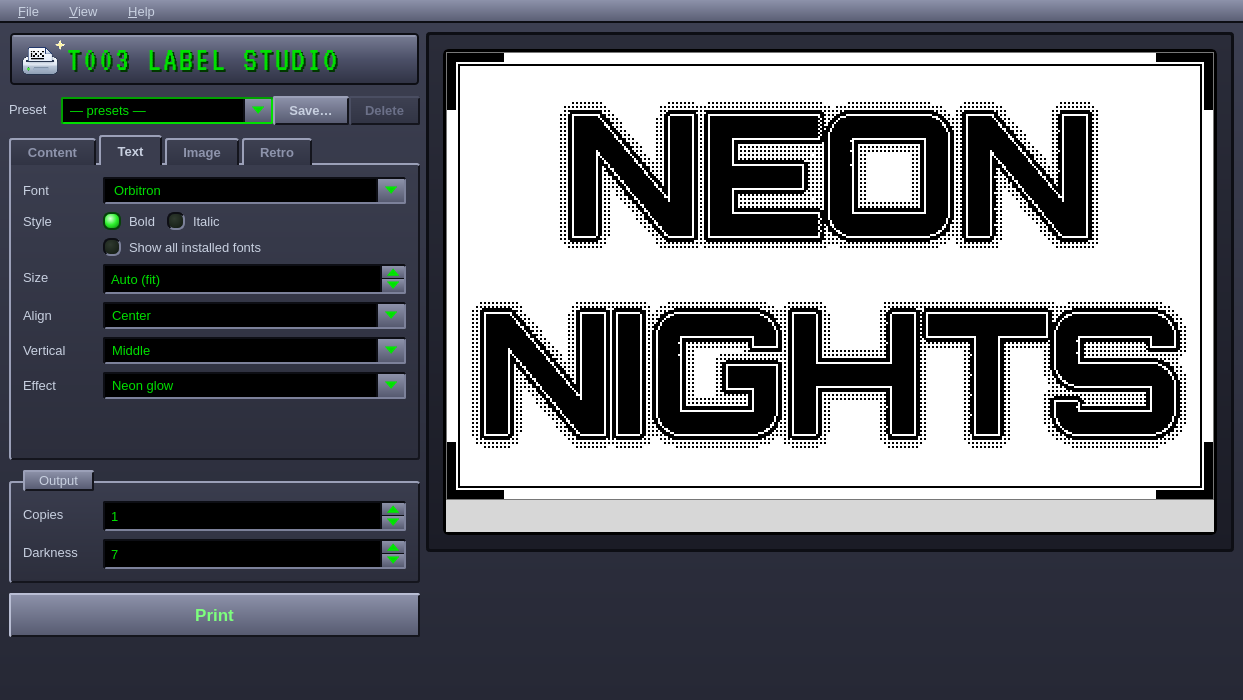
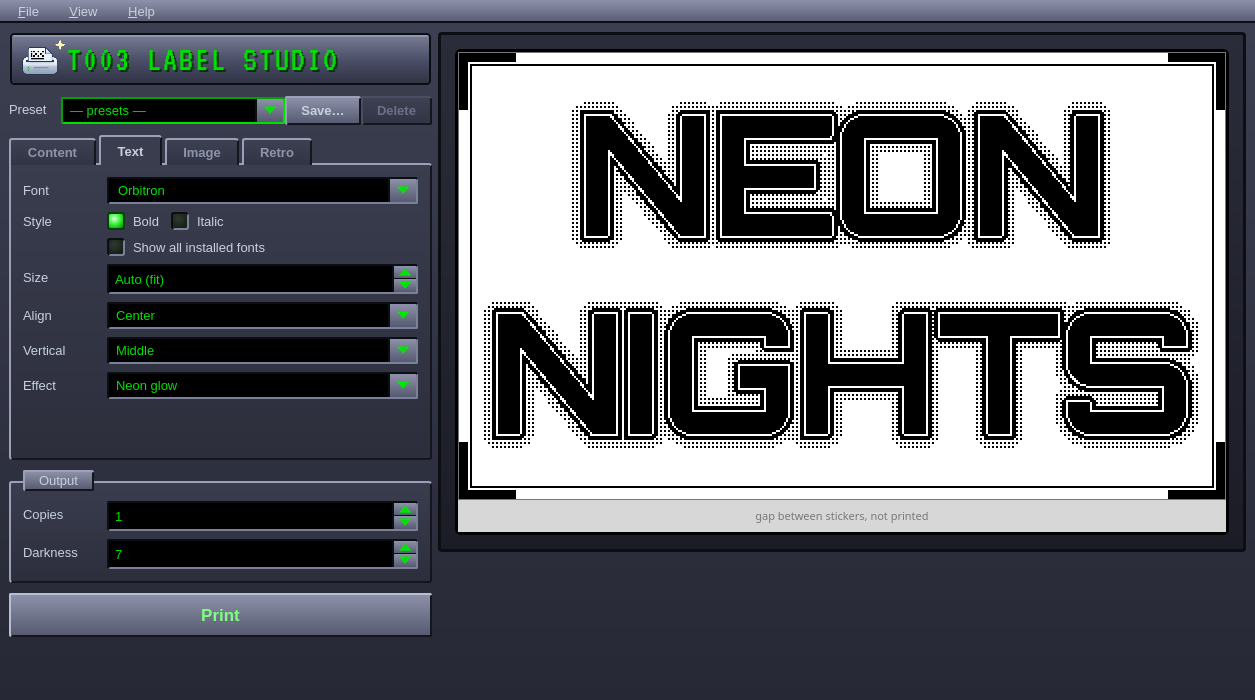
GUI polish: square checkboxes, captioned preview gap, aligned fields, tab accent
- Checkboxes are rounded squares in every theme (round LEDs read as radio buttons); Looks becomes Options
- The preview's gap strip is captioned (preview only) and the preview tooltip gives the label size
- One label-column width across every panel, so fields line up between the tabs and the Output box
- Y2K Blue/Pink: an accent line on the selected tab (orange / grape)
- README screenshots regenerated; notes for AGENTS.md

diff --git a/src/t003gui/theme.py b/src/t003gui/theme.py
@@ -109,6 +109,7 @@ class Theme:
     r_item: int
     arrow: str  # asset suffix: arrow-down{suffix}.png
     banner: BannerStyle
+    tab_accent: str = ""  # colour of the selected/hovered tab's top edge (an XP-style cue), or none
     font_pt: int = 10  # pixel fonts are only crisp at their design size
     preview_tint: tuple[str, str] | None = None  # (ink, paper): colour the label preview (cosmetic; prints stay black on white)
 
@@ -144,7 +145,7 @@ Y2K_BLUE = Theme(
     tab_unselected_text="#3a6aa8", tab_selected_bg="#ffffff",
     led_on="qradialgradient(cx:0.35, cy:0.3, radius:0.9, fx:0.35, fy:0.3, stop:0 #eaffd0, stop:0.45 #52e04a, stop:1 #14852a)",
     led_off="qradialgradient(cx:0.35, cy:0.3, radius:0.9, fx:0.35, fy:0.3, stop:0 #ffffff, stop:1 #bcd3ea)",
-    led_on_border="#14852a", led_dis="#e4e9f0", led_size=16, led_radius=10,
+    led_on_border="#14852a", led_dis="#e4e9f0", led_size=16, led_radius=4,
     scroll_bg="#e4f3ff", scroll_line="#9cc7ee",
     scroll_handle="qlineargradient(x1:0, y1:0, x2:1, y2:0, stop:0 #ffffff, stop:0.5 #a9d6fb, stop:1 #d9f0ff)",
     bezel_bg="qlineargradient(x1:0, y1:0, x2:0, y2:1, stop:0 #ffffff, stop:0.45 #dfe7f2, stop:0.55 #b9c6d8, stop:1 #8d9db3)",
@@ -152,7 +153,7 @@ Y2K_BLUE = Theme(
     tooltip_bg="#fff6a8", tooltip_text="#0b2a63", tooltip_border="#c9a400",
     menu_bg="#ffffff", dialog_bg="#eaf7ff",
     r_ctl=9, r_btn=13, r_default=16, r_pane=12, r_tab=12, r_title=10, r_bezel=18, r_menu=8, r_item=6,
-    arrow="",
+    arrow="", tab_accent="#ffa31a",
     banner=BannerStyle(
         stops=("#7fe3ff", "#1ea0f0", "#0b57d0"), outline="#0b3a8c", radius=22, gloss=True, bevel=None,
         font="Orbitron", size=15, weight=QFont.Black, spacing=1.5, color="#ffffff", shadow="#062a6b",
@@ -185,7 +186,7 @@ Y2K_PINK = replace(
     scroll_handle="qlineargradient(x1:0, y1:0, x2:1, y2:0, stop:0 #ffffff, stop:0.5 #ffb3dc, stop:1 #ffe3f2)",
     bezel_bg="qlineargradient(x1:0, y1:0, x2:0, y2:1, stop:0 #fff3fa, stop:0.45 #ffc9e6, stop:0.55 #ff9fd2, stop:1 #d4579f)",
     bezel_border="3px solid #b03a80", screen_border="3px solid #6b1f4d", status="#1b6a3a",
-    tooltip_text="#5a0f3d", menu_bg="#ffffff", dialog_bg="#fff0f8", arrow="-plum",
+    tooltip_text="#5a0f3d", menu_bg="#ffffff", dialog_bg="#fff0f8", arrow="-plum", tab_accent="#8f45f2",
     banner=BannerStyle(
         stops=("#ffb3de", "#ff4fa8", "#c2187a"), outline="#8a1259", radius=22, gloss=True, bevel=None,
         font="Orbitron", size=15, weight=QFont.Black, spacing=1.5, color="#ffffff", shadow="#6d0e48",
@@ -215,7 +216,7 @@ GUNMETAL = Theme(
     tab_unselected_text="#8e94ac", tab_selected_bg="#3a3d4e",
     led_on="qradialgradient(cx:0.4, cy:0.35, radius:0.8, fx:0.4, fy:0.35, stop:0 #d8ffd8, stop:0.5 #2cf02c, stop:1 #0a7a0a)",
     led_off="qradialgradient(cx:0.4, cy:0.35, radius:0.8, fx:0.4, fy:0.35, stop:0 #2f3a2f, stop:1 #101810)",
-    led_on_border="#06400a", led_dis="#22252f", led_size=14, led_radius=7,
+    led_on_border="#06400a", led_dis="#22252f", led_size=14, led_radius=3,
     scroll_bg="#14151d", scroll_line="#0d0e14",
     scroll_handle=_vgrad("#8d92aa", "#565a70"),
     bezel_bg=_vgrad("#2a2c39", "#1b1c26"),
@@ -361,7 +362,10 @@ QMenu::item {{ padding: 5px 22px; border-radius: {t.r_item}px; }}
 QMenu::item:selected {{ background: {t.select_bg}; color: {t.select_text}; }}
 QToolTip {{ background: {t.tooltip_bg}; color: {t.tooltip_text}; border: 2px solid {t.tooltip_border}; padding: 3px; }}
 QMessageBox, QInputDialog {{ background: {t.dialog_bg}; }}
-"""
+""" + (
+        f"QTabBar::tab:selected, QTabBar::tab:hover:!selected {{ border-top-color: {t.tab_accent}; }}\n"
+        if t.tab_accent else ""
+    )
 
 
 class Banner(QWidget):

diff --git a/src/t003gui/app.py b/src/t003gui/app.py
@@ -6,7 +6,7 @@ import sys
 from pathlib import Path
 
 from PIL import ImageOps
-from PySide6.QtCore import QEvent, QObject, QSettings, Qt, QUrl
+from PySide6.QtCore import QEvent, QObject, QRect, QSettings, Qt, QUrl
 from PySide6.QtGui import (
     QAction,
     QActionGroup,
@@ -108,6 +108,10 @@ class MainWindow(QMainWindow):
         self.preview = QLabel()
         self.preview.setObjectName("screen")
         self.preview.setAlignment(Qt.AlignTop | Qt.AlignHCenter)
+        self.preview.setToolTip(
+            f"{core.W} × {core.SH} dots (about 48 × 28 mm), exactly what prints.\n"
+            f"The strip below is the gap between stickers; nothing there is printed."
+        )
         bezel = QFrame()  # a chrome monitor bezel under the Y2K themes, invisible otherwise
         bezel.setObjectName("bezel")
         bezel_layout = QVBoxLayout(bezel)
@@ -192,6 +196,7 @@ class MainWindow(QMainWindow):
             self.banner.set_style(chosen.banner)
         self.theme_actions[key].setChecked(True)
         QSettings().setValue("theme", key)
+        self._align_label_columns()  # fonts differ per theme, so the shared label width is measured again
         self.refresh_preview()  # the preview takes the theme's tint
 
     def reload_presets(self, select: str | None = None) -> None:
@@ -258,6 +263,22 @@ class MainWindow(QMainWindow):
             if mime and not mime.hasText() and (mime.hasImage() or mime.hasUrls()) and self.content.paste_image():
                 return True
         return super().eventFilter(obj, event)
+
+    def _align_label_columns(self) -> None:
+        """One label column width across every panel, so the fields line up between tabs and the Output box."""
+        labels = []
+        for panel in self.panels:
+            form = panel.layout()
+            for row in range(form.rowCount()):
+                item = form.itemAt(row, QFormLayout.LabelRole)
+                if item and item.widget():
+                    labels.append(item.widget())
+        for label in labels:
+            label.setMinimumWidth(0)
+            label.ensurePolished()
+        width = max(label.sizeHint().width() for label in labels)
+        for label in labels:
+            label.setMinimumWidth(width)
 
     @staticmethod
     def _open_url(url: str) -> None:
@@ -405,9 +426,14 @@ class MainWindow(QMainWindow):
         )
         # Shade the gap below the sticker so it's obvious nothing there gets printed.
         painter = QPainter(pix)
-        painter.fillRect(0, core.SH * PREVIEW_SCALE, pix.width(), pix.height(), QColor(0, 0, 0, 40))
+        gap = QRect(0, core.SH * PREVIEW_SCALE, pix.width(), pix.height() - core.SH * PREVIEW_SCALE)
+        painter.fillRect(gap, QColor(0, 0, 0, 40))
         painter.setPen(QColor(120, 120, 120))
         painter.drawRect(0, 0, pix.width() - 1, core.SH * PREVIEW_SCALE - 1)
+        font = painter.font()
+        font.setPointSize(8)
+        painter.setFont(font)
+        painter.drawText(gap, Qt.AlignCenter, "gap between stickers, not printed")  # preview only: exports and prints never see it
         painter.end()
         self.preview.setPixmap(pix)
 

diff --git a/tests/test_gui.py b/tests/test_gui.py
@@ -301,3 +301,33 @@ def test_layout_round_trips_through_the_content_panel(window):
     window.set_spec(core.LabelSpec(image_layout="nonsense", image_size=999))  # clamped / defaulted, never crashes
     spec = window.spec()
     assert (spec.image_layout, spec.image_size) == ("only", 80)
+
+
+def test_preview_explains_the_gap_strip(window):
+    assert f"{core.W} × {core.SH} dots" in window.preview.toolTip()
+    img = window.preview.pixmap().toImage()
+    strip_top = core.SH * 2  # the preview is drawn at 2x
+    colours = {img.pixelColor(x, y).rgb() for x in range(img.width()) for y in range(strip_top + 2, img.height() - 2)}
+    assert len(colours) > 2  # shaded background plus the caption's text, not a blank grey bar
+    # the caption is preview-only: the exported bitmap has nothing below the sticker
+    assert set(core.to_bitmap(core.render(window.spec())).crop((0, core.SH, core.W, core.H)).tobytes()) == {255}
+
+
+@pytest.mark.parametrize("key", ["y2k-blue", "gunmetal", "handheld", "system"])
+def test_fields_line_up_across_all_panels(window, app, key):
+    """The Output box and every tab share one label column, so no field starts a few pixels left of another."""
+    from PySide6.QtCore import QPoint
+
+    window.apply_theme(key)
+    window.resize(window.sizeHint())
+    tabs = window.findChild(QTabWidget)
+    fields = {0: window.content.text, 1: window.text_panel.font_box, 2: window.image_panel.dither,
+              3: window.retro.border_box}
+    starts = set()
+    for index, field in fields.items():
+        tabs.setCurrentIndex(index)
+        app.processEvents()
+        starts.add(field.mapTo(window, QPoint(0, 0)).x())
+    starts.add(window.output.copies.mapTo(window, QPoint(0, 0)).x())
+    # exact for our themes; the platform style draws tab panes and group boxes with frames a pixel apart
+    assert max(starts) - min(starts) <= (2 if key == "system" else 0), starts

diff --git a/src/t003gui/panels.py b/src/t003gui/panels.py
@@ -358,7 +358,7 @@ class ImagePanel(QWidget):
         form.addRow("Contrast", self.contrast)
         form.addRow("Gamma", self.gamma)
         form.addRow("Pixelate", self.pixelate)
-        form.addRow("Looks", looks_row)
+        form.addRow("Options", looks_row)
         form.addRow("", self.reset)
         _tidy(form)
 

diff --git a/AGENTS.md b/AGENTS.md
@@ -28,6 +28,8 @@ python packaging/build.py                     # PyInstaller build for the curren
 - `src/t003gui/selftest.py` — `--selftest`; set `T003_SELFTEST_LOG` to also write to a file (windowed Windows builds have no console).
 - `src/t003gui/imaging.py` — Qt-free picture pipeline for image labels: load (EXIF-upright, transparency over white) -> fit -> tone (gamma, brightness, contrast) -> dither. Default Floyd–Steinberg is left to `to_bitmap`; ordered (Bayer 4×4/8×8, built with Pillow ops, no numpy) and the hard cutoff produce pure 0/255 here, which `to_bitmap` passes through untouched. `LabelSpec.threshold` (not None) means hard cutoff and wins over `dither`; the Image tab maps that onto one combo. Looks (`mirror`, `flip`, `invert`, `pixelate`): with `pixelate` the tone and dither run at the low resolution and the dots are then enlarged (nearest), so the dither pattern itself is chunky; this is why `_dither(final=False)` forces Floyd–Steinberg early. `ImagePanel` dims itself until an image is chosen and hides the Cutoff row unless the hard cutoff is selected (keeps the tab, and so the window, short).
 - **Image + text** (`LabelSpec.image_layout`, `image_size`): `"only"` (default) keeps the old behaviour (the picture replaces text/QR, `render` returns early). `left/right/top/bottom` carve `image_size` % (clamped 20-80) of the usable area out of `ax0/ax1/ay0/ay1` before the QR and text lay out in what is left, so QR and text need no special cases. `behind` pastes the picture covering the whole sticker (`ImageOps.fit`) and turns on the same white text halo that backgrounds get (the `backdrop` flag); it replaces the background pattern. Controls live on the Content tab (shortest page, so the window doesn't grow); the combo uses `AdjustToMinimumContentsLength` because a long item widens the whole window.
+- **Text is binarised** (`render._BINARY`, a 50 % threshold on the text layer's value and alpha): anti-aliased edge pixels used to go through the label-wide Floyd–Steinberg pass and came out as speckle. Measured across fonts/sizes it keeps ~97 % of the ink (a lower threshold thins small light text); `test_text_is_pure_black_and_white_before_dithering` checks every effect. Don't reintroduce gray in text layers.
+- **UI details worth keeping:** checkboxes are rounded squares in every theme (round indicators read as radio buttons); one label-column width across all panels (`MainWindow._align_label_columns`, re-measured per theme because fonts differ) so fields line up between tabs and the Output box; the preview's gap strip is captioned (preview only, never exported) and the preview tooltip gives the label size.
 - `src/t003gui/composition.py` — Qt-free `.t003label` files (JSON: `format`, `version`, `spec`, optional embedded `image`). Unlike presets (config-dir store, path only) a composition embeds its image so it travels; embedded names are sanitised and stored under a content-hash name in a temp folder. Unknown fields ignored, a newer `version` refused. The GUI's File menu (open/save/export, Ctrl+O/S/E), drag-and-drop of a `.t003label` and `t003-print --file` all use it; `core.export_png` is the image export (sticker rows only, nearest-neighbour enlarge). File dialogs are the unparented system ones (see theme.py).
 - `src/t003gui/about.py` + the Help menu (in `app.py`, headed by a disabled "Version x.y.z" line): About box (version, printer found/not, bundled-font credit, repo link), "Check for updates…" (`updates.py`: on request only, one HEAD request to `github.com/<repo>/releases/latest` whose 302 target ends in the tag, compared numerically with `__version__`; shows the running version, then up to date / newer / couldn't check, with a link to the release page; no REST API, no auto-update, prereleases are never offered; tested against a local HTTP server, never GitHub), "Report an issue…", "Open presets folder". The version lives ONLY in `t003gui.__version__` (pyproject reads it dynamically; frozen builds have no package metadata); `release.yml` fails a tag that doesn't match it.
 - `src/t003gui/presets.py` — Qt-free preset store, JSON at `$XDG_CONFIG_HOME/t003-label-gui/presets.json`. Shared by the GUI and `t003-print --preset NAME`.
